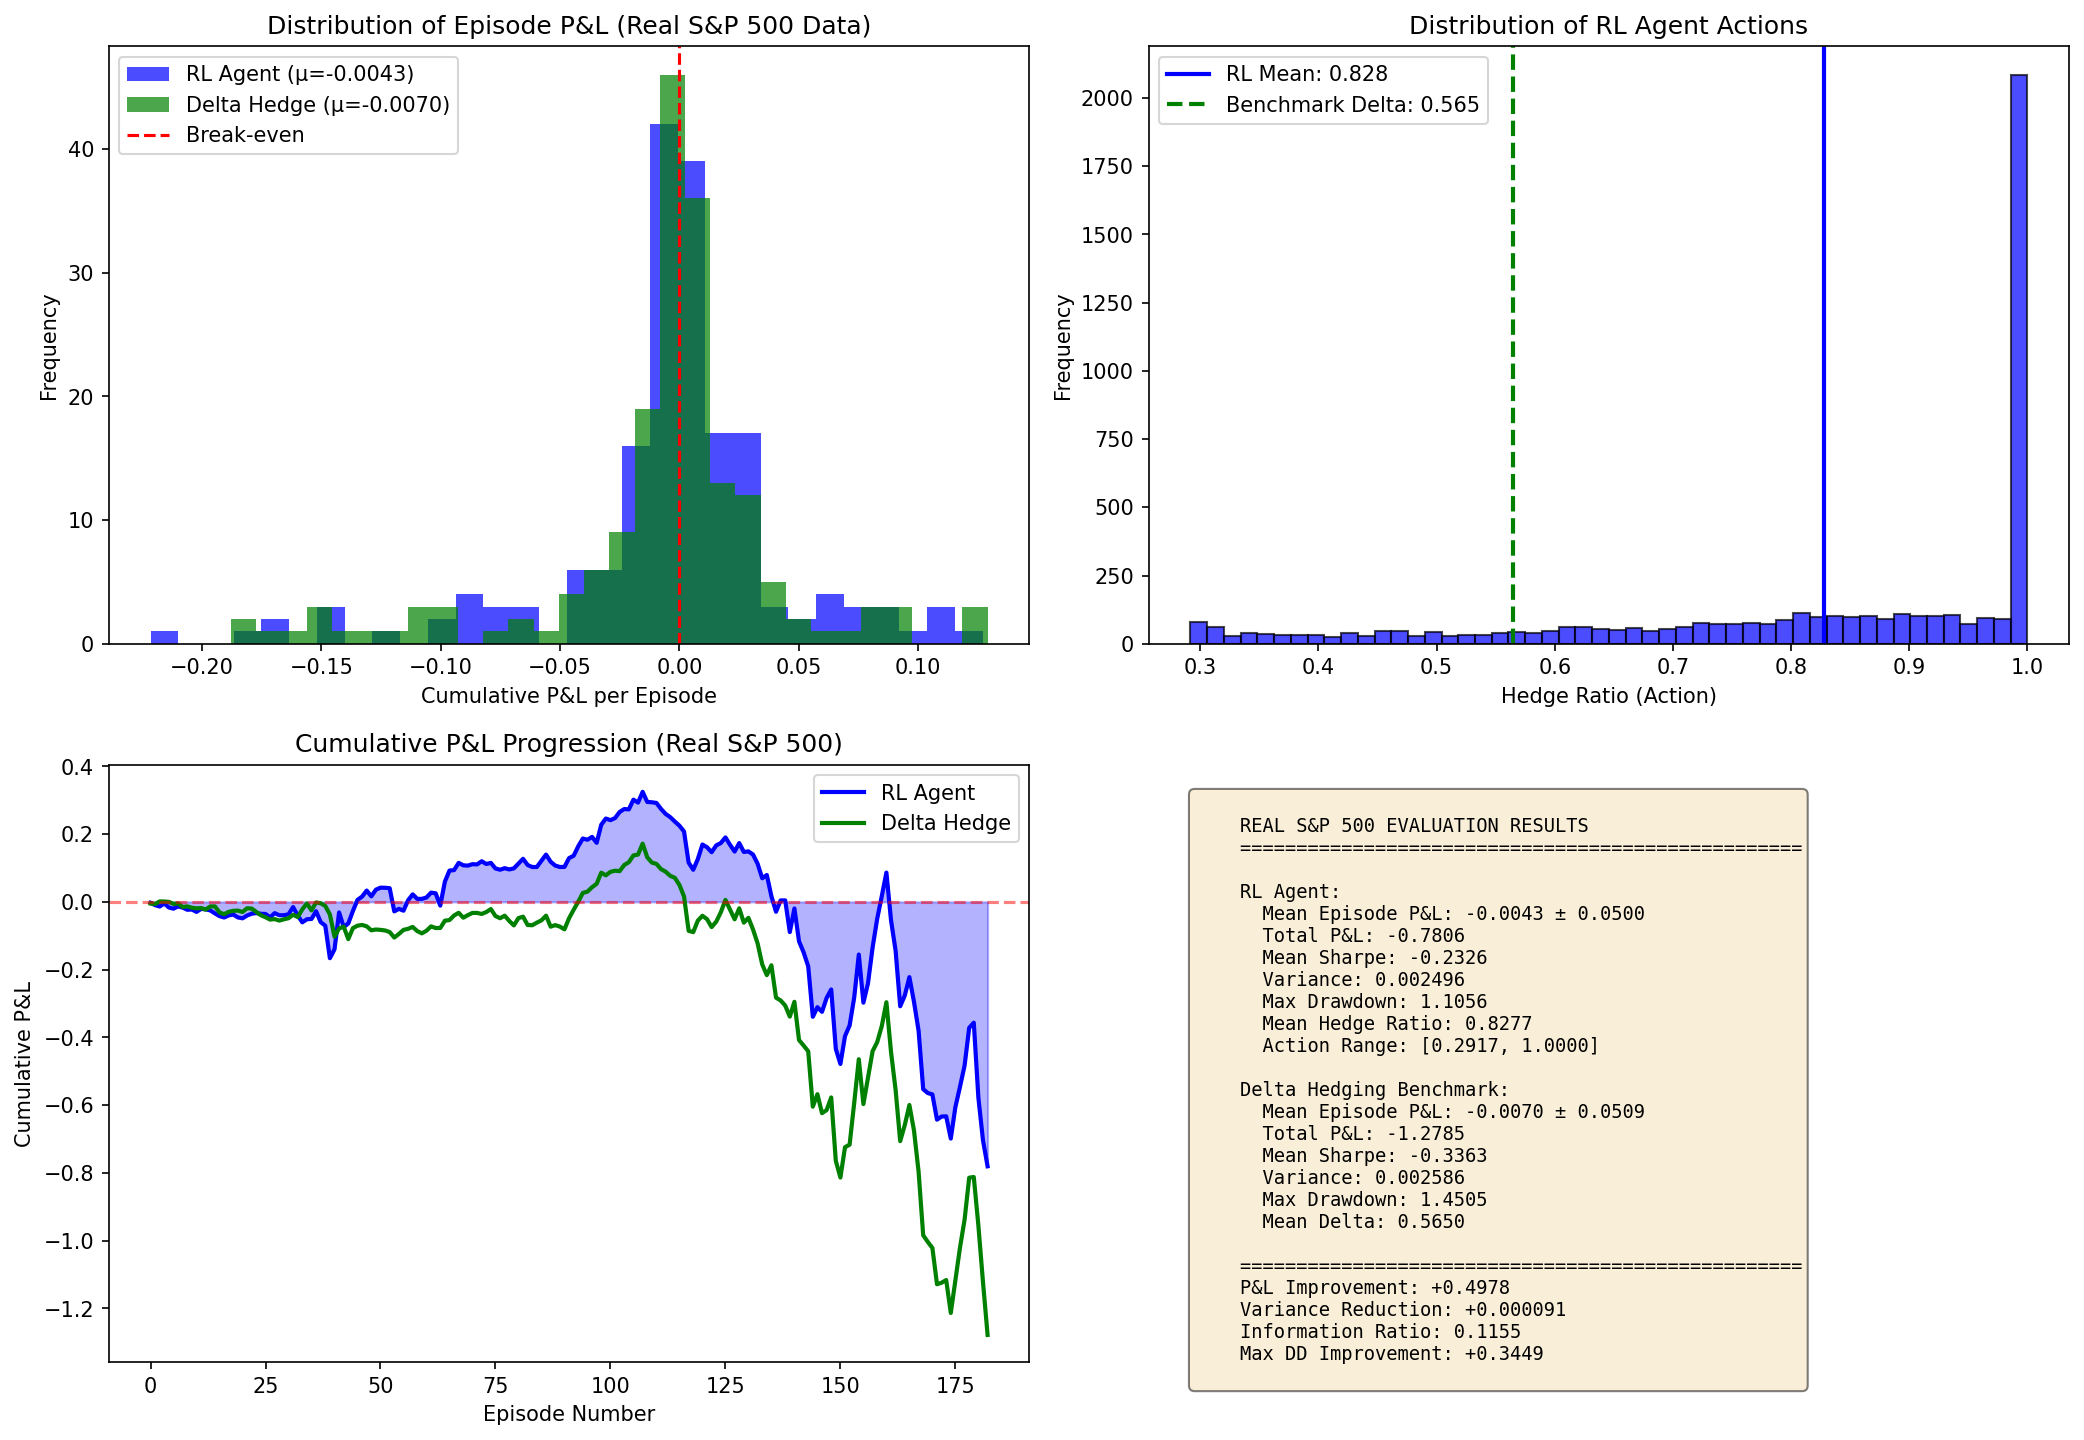
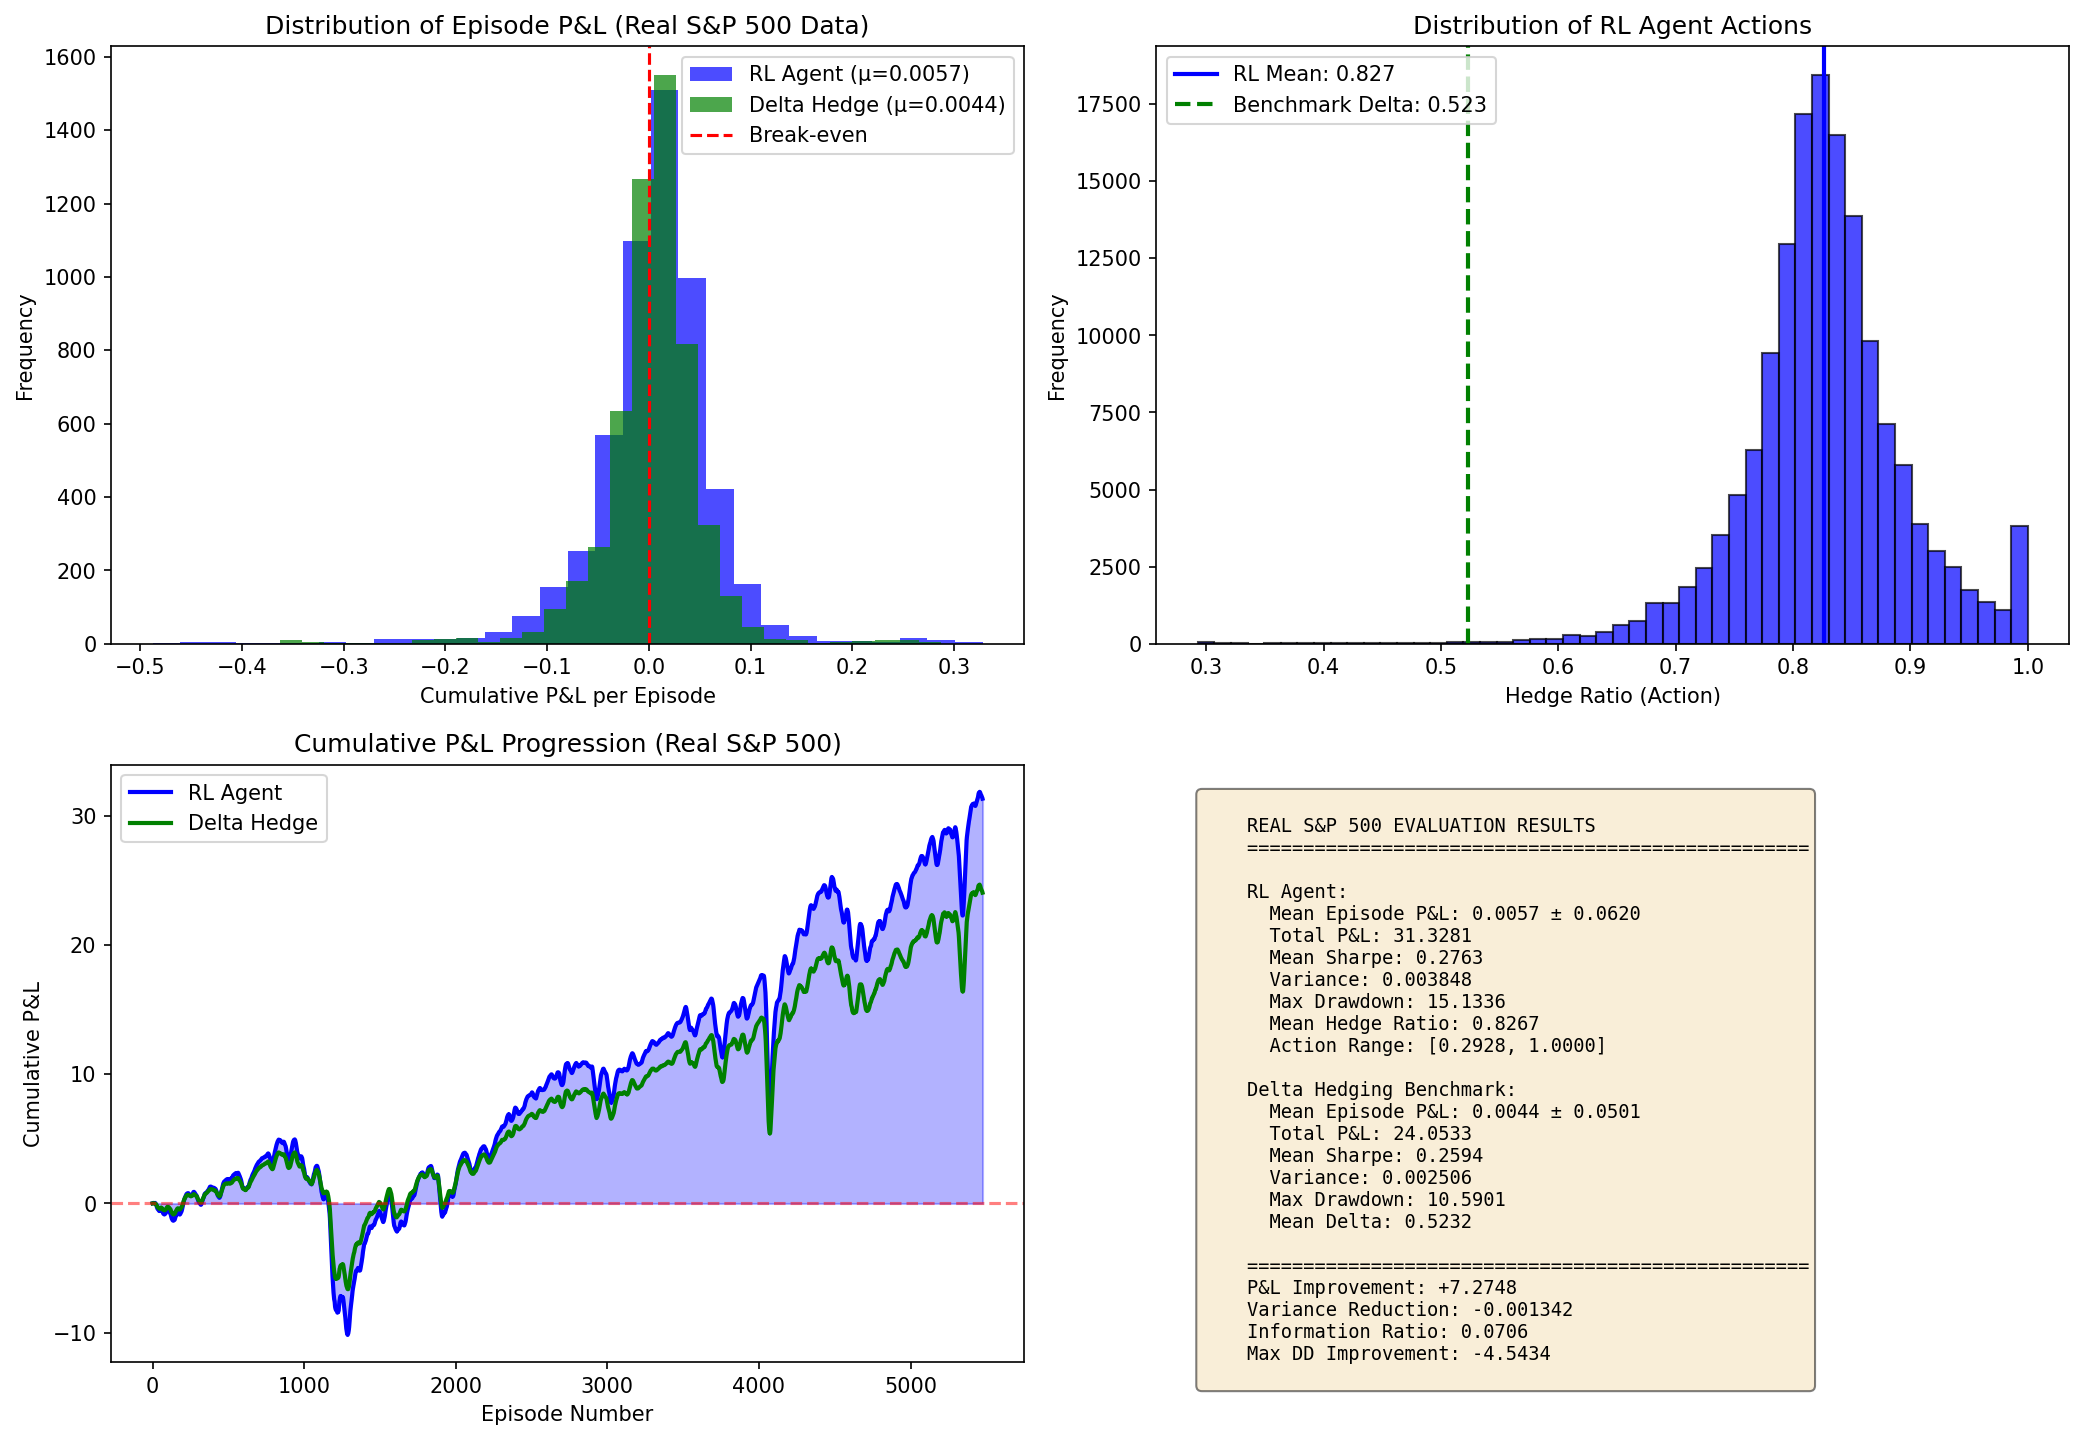
Add more windows for evaluation script

diff --git a/src/evaluate_model.py b/src/evaluate_model.py
@@ -70,6 +70,8 @@ def create_test_environments_from_real_data(
     end_year=2025,
     episode_length=30,
     norm_stats=None,
+    use_overlapping_windows=False,
+    window_step=1,
     verbose=True
 ):
     """
@@ -80,12 +82,16 @@ def create_test_environments_from_real_data(
         end_year: End year for test data
         episode_length: Length of each episode in days
         norm_stats: Normalization statistics from training (CRITICAL for correct evaluation)
+        use_overlapping_windows: If True, create overlapping windows starting at each day
+        window_step: Step size between windows (only used if use_overlapping_windows=True)
+                    1 = start new window every day, 5 = every 5 days, etc.
         verbose: Print progress
     
     Returns:
         list: List of HedgingEnv instances
     """
     from generate_contract import generate_historical_hedging_data
+    from hedging_env import HedgingEnv
     
     # Load S&P 500 data
     sp500_path = CONFIG.get("sp500_data_path", "./data/sp500_data.csv")
@@ -105,6 +111,7 @@ def create_test_environments_from_real_data(
         print(f"  Data path: {sp500_path}")
         print(f"  Years: {start_year}-{end_year}")
         print(f"  Episode length: {episode_length} days")
+        print(f"  Window mode: {'Overlapping (step=' + str(window_step) + ')' if use_overlapping_windows else 'Non-overlapping'}")
         if norm_stats is not None:
             print(f"  Using normalization stats from training")
     
@@ -129,14 +136,100 @@ def create_test_environments_from_real_data(
         print(f"  Total data points: {len(df)}")
         print(f"  Date range: {df[datetime_col].min().date()} to {df[datetime_col].max().date()}")
     
-    # Use the same windowing logic as run_training.py
-    test_envs = _create_windowed_test_envs(
-        df, 
-        window_length=episode_length,
-        norm_stats=norm_stats,  # Use norm_stats from training!
-        normalize=CONFIG.get("normalize_data", True),
-        verbose=verbose
-    )
+    if use_overlapping_windows:
+        # Create overlapping windows - start a new window every 'window_step' days
+        test_envs = _create_overlapping_test_envs(
+            df,
+            window_length=episode_length,
+            window_step=window_step,
+            norm_stats=norm_stats,
+            normalize=CONFIG.get("normalize_data", True),
+            verbose=verbose
+        )
+    else:
+        # Use the same non-overlapping windowing logic as run_training.py
+        test_envs = _create_windowed_test_envs(
+            df, 
+            window_length=episode_length,
+            norm_stats=norm_stats,
+            normalize=CONFIG.get("normalize_data", True),
+            verbose=verbose
+        )
+    
+    return test_envs
+
+
+def _create_overlapping_test_envs(
+    df,
+    window_length=30,
+    window_step=1,
+    norm_stats=None,
+    normalize=True,
+    verbose=True
+):
+    """
+    Create overlapping test environments where a new window starts every 'window_step' days.
+    
+    This provides much more comprehensive evaluation coverage:
+    - window_step=1: Every day starts a new 30-day window (maximum coverage)
+    - window_step=5: Every 5 days starts a new window (5x more than non-overlapping)
+    
+    Args:
+        df: DataFrame with hedging data
+        window_length: Length of each window in days
+        window_step: Days between window start points
+        norm_stats: Normalization statistics
+        normalize: Whether to normalize data
+        verbose: Print progress
+    
+    Returns:
+        list: List of HedgingEnv instances
+    """
+    from hedging_env import HedgingEnv
+    
+    n_rows = len(df)
+    
+    # Calculate number of windows
+    # With step=1 and length=30 and 1000 days: ~970 windows
+    # With step=30 (non-overlapping): ~33 windows
+    n_windows = (n_rows - window_length) // window_step + 1
+    
+    if n_windows <= 0:
+        raise ValueError(f"Not enough data ({n_rows} rows) for window_length={window_length}")
+    
+    if verbose:
+        print(f"\n  Creating {n_windows} overlapping test windows...")
+        print(f"    Window length: {window_length} days")
+        print(f"    Window step: {window_step} days")
+        print(f"    Data points: {n_rows}")
+    
+    test_envs = []
+    
+    for i in range(0, n_rows - window_length + 1, window_step):
+        window_df = df.iloc[i:i + window_length].copy()
+        
+        if len(window_df) < window_length:
+            continue
+        
+        # Create environment for this window
+        env = HedgingEnv(
+            option_prices=window_df['option_price'].values,
+            stock_prices=window_df['underlying_price'].values,
+            moneyness=window_df['moneyness'].values,
+            ttm=window_df['time_to_maturity'].values,
+            timestamps=window_df['timestamp'].values,
+            normalize=normalize,
+            normalization_stats=norm_stats,
+            verbose=False
+        )
+        test_envs.append(env)
+        
+        # Progress update
+        if verbose and len(test_envs) % 500 == 0:
+            print(f"    Created {len(test_envs)}/{n_windows} windows...")
+    
+    if verbose:
+        print(f"  ✓ Created {len(test_envs)} overlapping test environments")
     
     return test_envs
 
@@ -334,6 +427,13 @@ def main():
     END_YEAR = 2025
     EPISODE_LENGTH = 30  # Days per episode (same as training)
     OUTPUT_PATH = None  # None = save next to model
+    
+    # Window configuration
+    USE_OVERLAPPING_WINDOWS = True  # True = start window each day, False = non-overlapping
+    WINDOW_STEP = 1  # Days between windows (only if USE_OVERLAPPING_WINDOWS=True)
+                     # 1 = every day (max coverage, ~5000+ windows)
+                     # 5 = every 5 days (~1000 windows)
+                     # 30 = effectively non-overlapping
     # =========================================================================
     
     # Set random seed for reproducibility (same as run_training.py)
@@ -346,6 +446,7 @@ def main():
     print(f"Model: {MODEL_PATH}")
     print(f"Test period: {START_YEAR}-{END_YEAR}")
     print(f"Episode length: {EPISODE_LENGTH} days")
+    print(f"Window mode: {'Overlapping (step=' + str(WINDOW_STEP) + ')' if USE_OVERLAPPING_WINDOWS else 'Non-overlapping'}")
     print(f"Random seed: {seed}")
     print(f"{'='*70}\n")
     
@@ -399,6 +500,8 @@ def main():
         end_year=END_YEAR,
         episode_length=EPISODE_LENGTH,
         norm_stats=norm_stats,  # Use norm_stats from training!
+        use_overlapping_windows=USE_OVERLAPPING_WINDOWS,
+        window_step=WINDOW_STEP,
         verbose=True
     )
     
